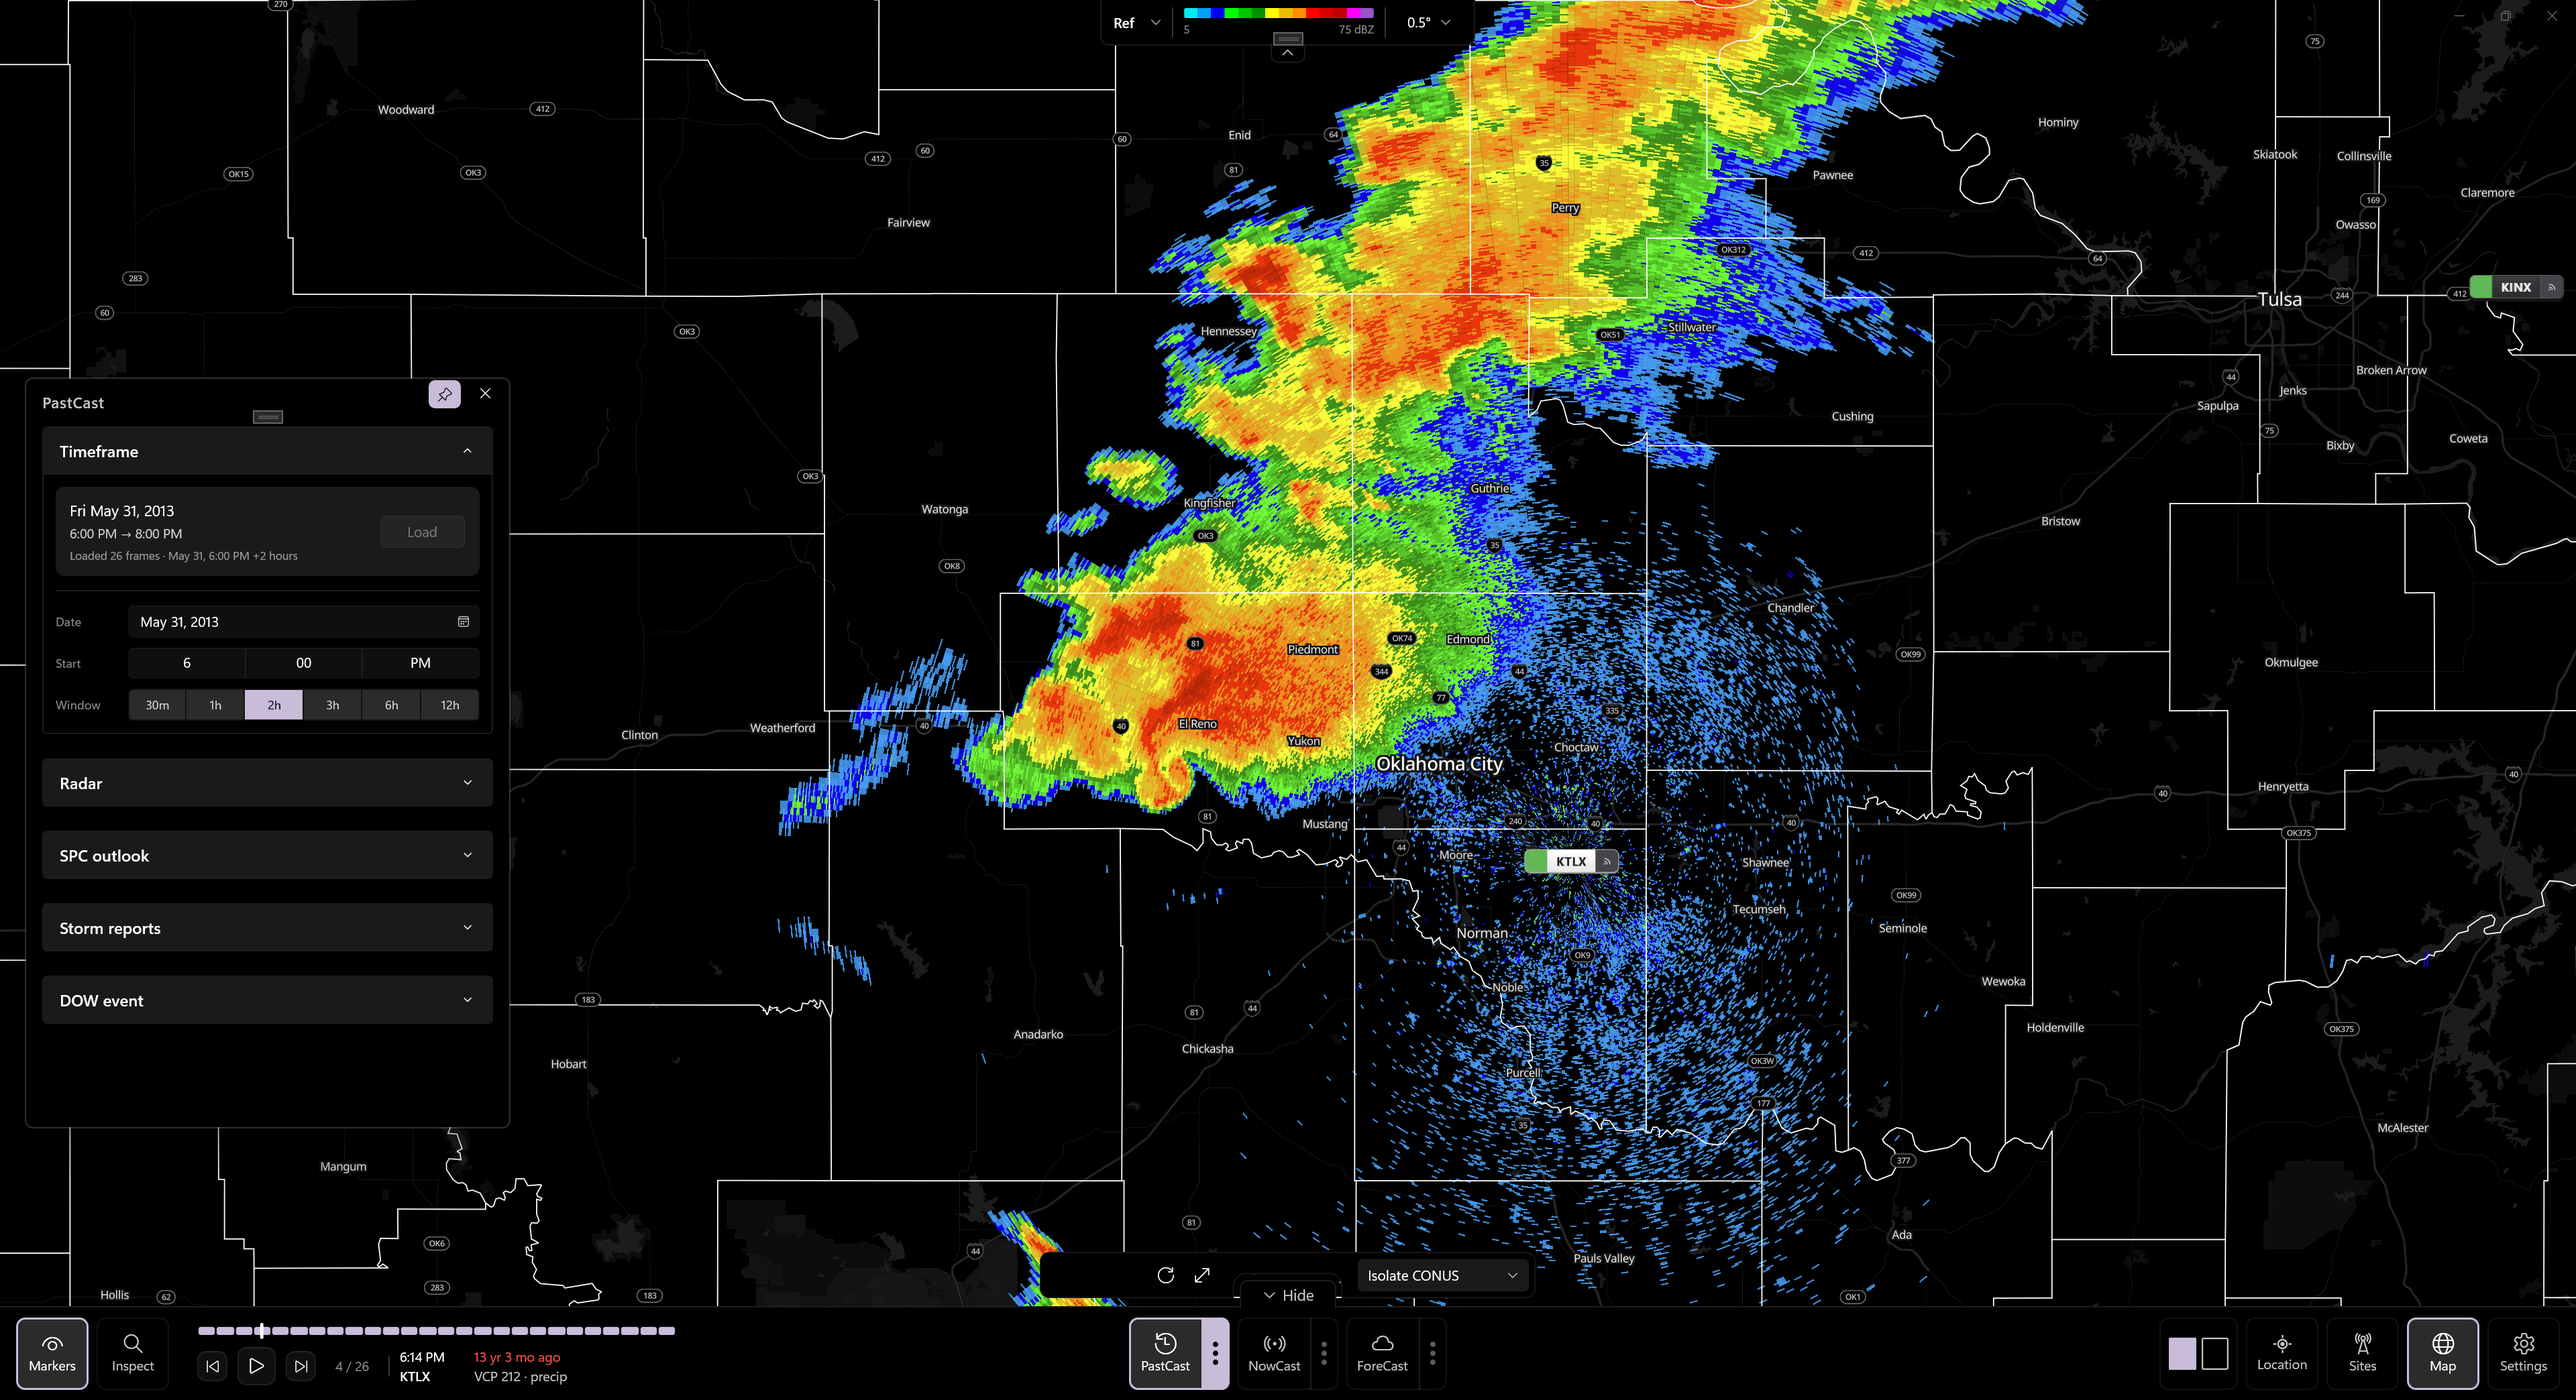
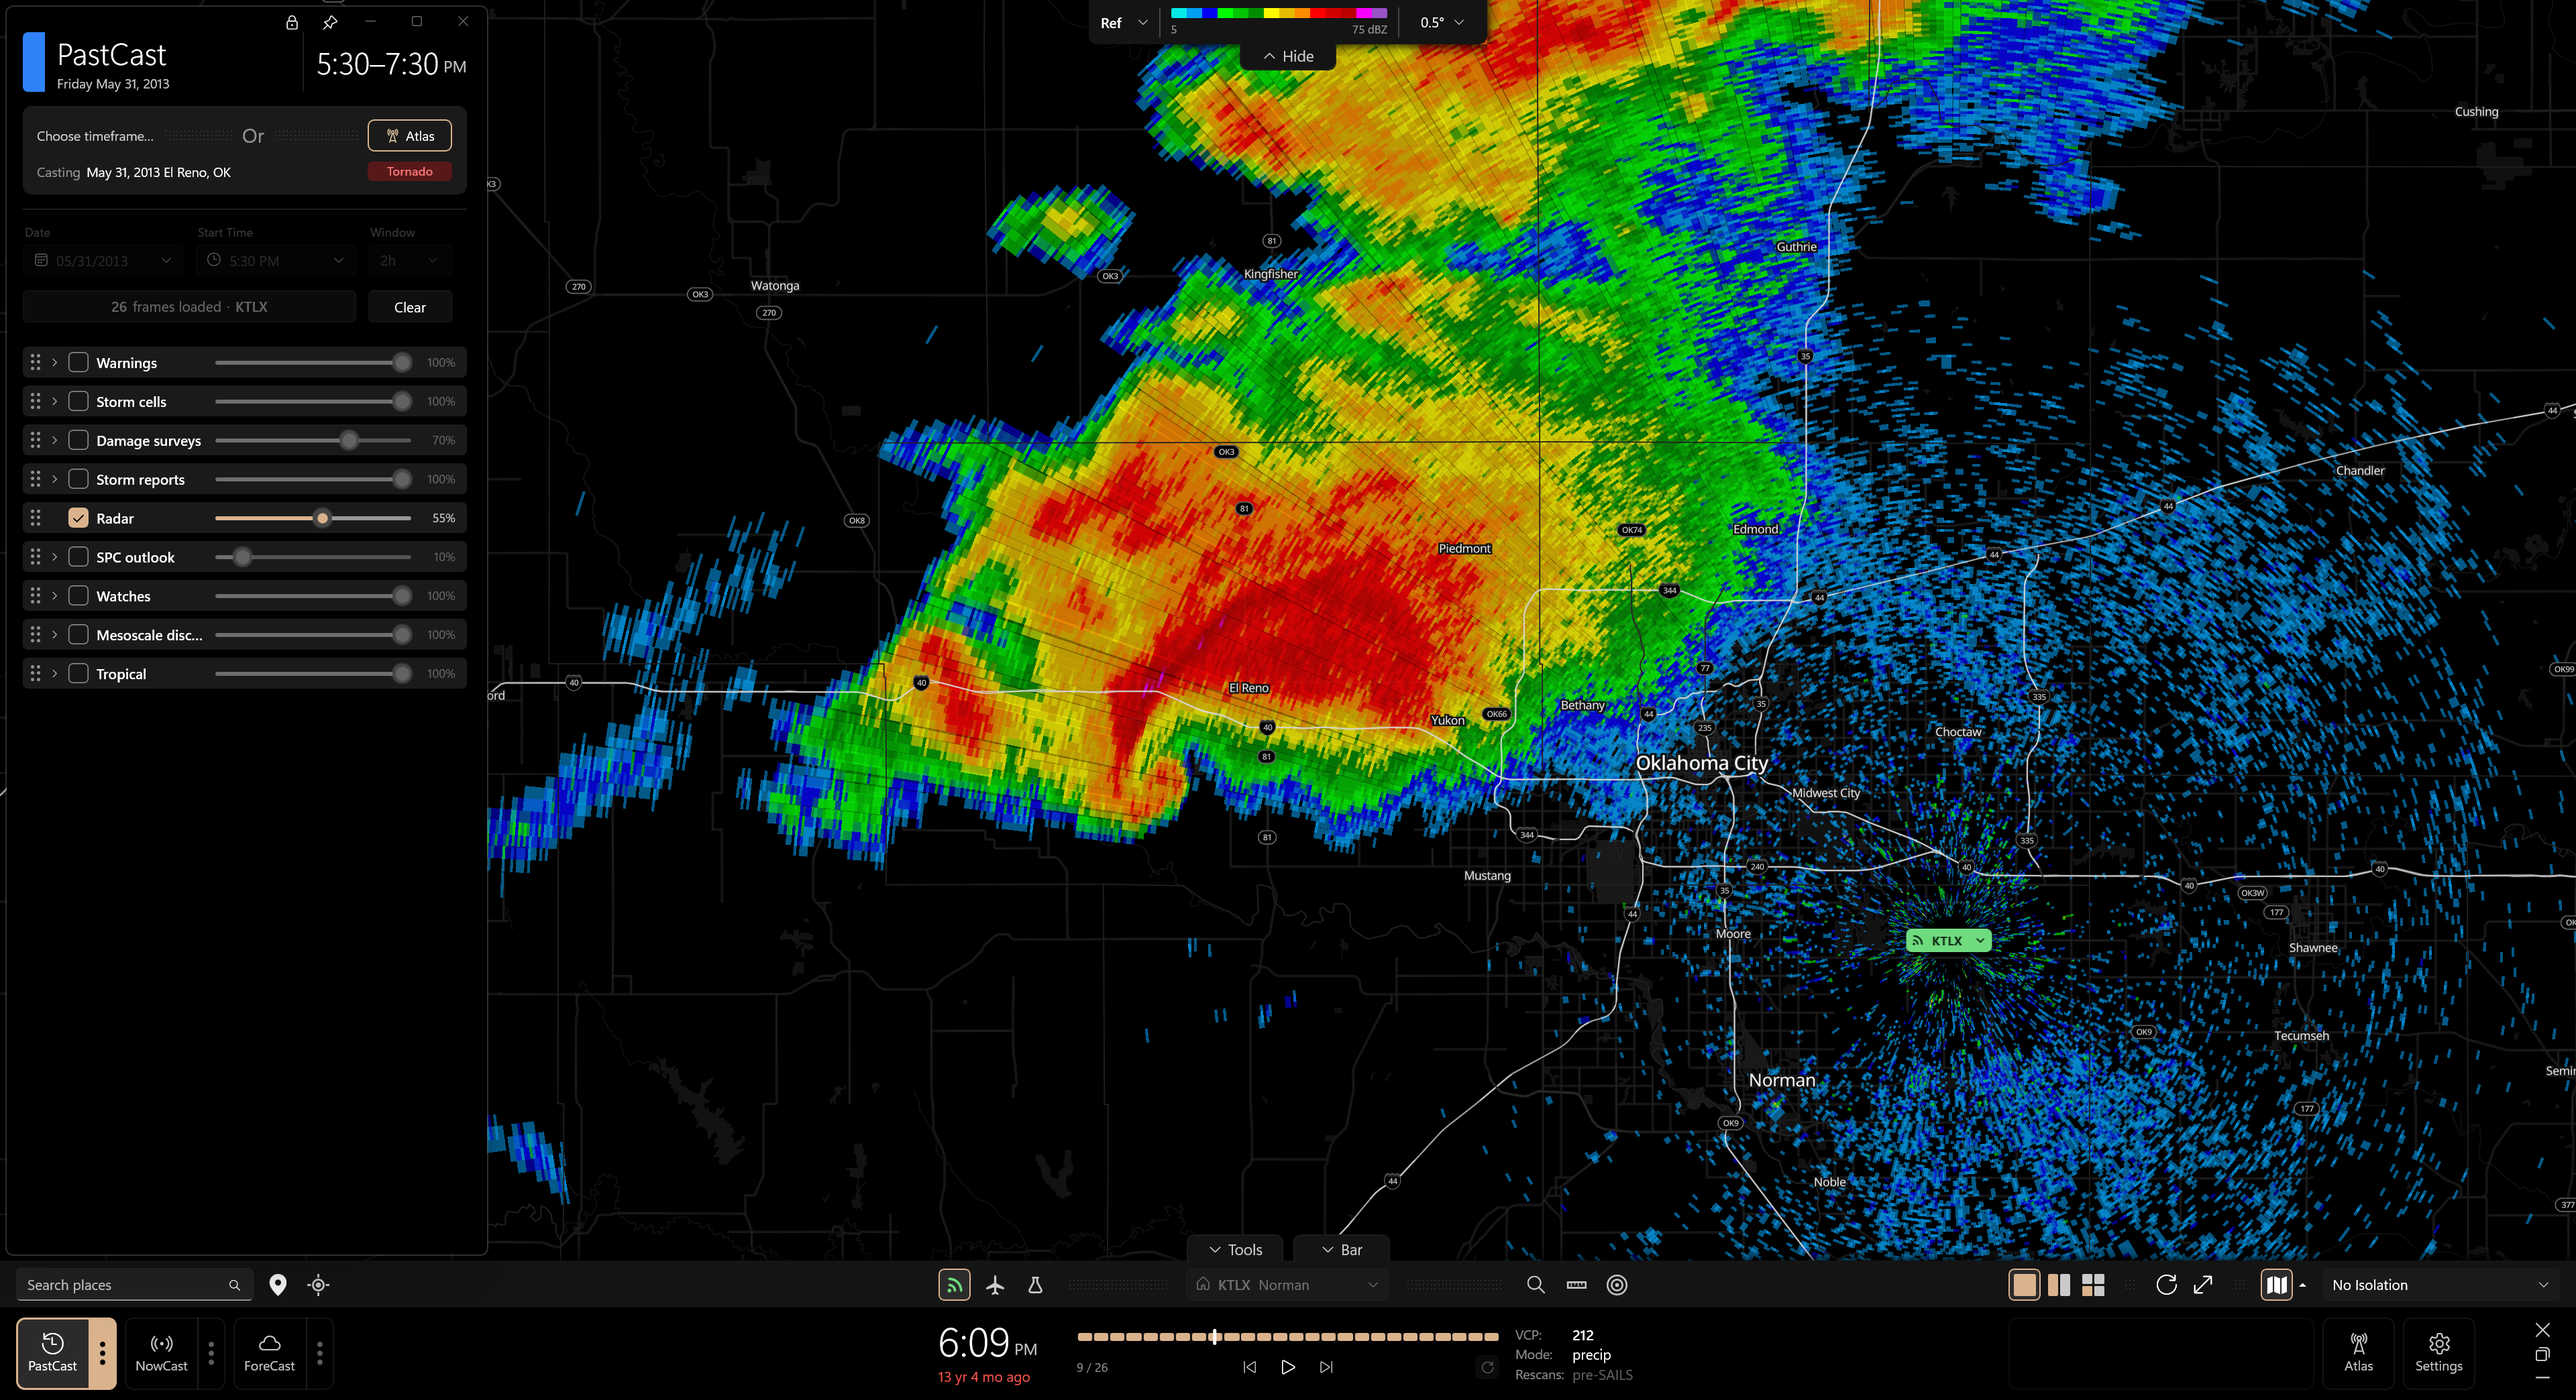
Refresh the README screenshots and rewrite their alt text to match
DevJohn requested updated GitHub screenshots for Anvil. The five images in media/ were retaken under their existing names (hero El Reno replay, four-pane quad, NowCast warnings, PastCast outlook, state isolation), all still 3840x2088, so the README's width/height attributes are unchanged.

The alt text was rewritten to describe what each new image shows: the NowCast shot is now a live KRAX loop with one severe and one tornado warning and 81 active watches, the outlook and isolation shots now show the 24 May 2011 High-risk outlook, and the hero's wording names the loaded window and frame; the quad's text still matched.

diff --git a/README.md b/README.md
@@ -4,7 +4,7 @@
 replayed from the archive — and GPU-renders it over local, fully style-controlled vector basemaps, with
 SPC outlooks, watches, warnings, and storm reports layered on top.
 
-<img width="3840" height="2088" alt="The 31 May 2013 El Reno supercell replayed from the archive on KTLX at 0.5° reflectivity, with the PastCast panel showing the loaded two-hour window and the frame scrubber part-way through 26 frames" src="media/hero-el-reno-replay.png" />
+<img width="3840" height="2088" alt="The 31 May 2013 El Reno supercell replayed from the archive on KTLX at 0.5° reflectivity, with the PastCast panel showing the loaded 5:30–7:30 PM window and the scrubber on frame 9 of 26" src="media/hero-el-reno-replay.png" />
 
 ## What it does
 
@@ -24,7 +24,7 @@ stitches in a near-real-time frame from the chunks bucket, cutting the usual ~10
 to a minute or two. The Past Event Viewer plays any site and date back through the 1990s through the
 exact same pipeline — scrub it, loop it, and read the decoded value under the cursor off the Inspector.
 
-<img width="3840" height="2088" alt="A live loop over the Carolinas with ten severe-thunderstorm warning polygons from the NWS CAP feed, the NowCast panel showing the per-type counts and the fifteen-second refresh cadence" src="media/nowcast-warnings.png" />
+<img width="3840" height="2088" alt="A live KRAX loop over eastern North Carolina and southeast Virginia with a severe-thunderstorm warning near Roanoke Rapids and a tornado warning near Washington from the NWS CAP feed, the NowCast panel showing the tornado, severe and flash-flood counts and the 81 active watches" src="media/nowcast-warnings.png" />
 
 **It overlays the severe-weather picture on top.** SPC convective and fire outlooks (Days 1–8, with
 significant-area hatching), tornado and severe-thunderstorm watches, storm-based warning polygons from
@@ -32,7 +32,7 @@ the authoritative NWS CAP feed, and SPC storm reports as verification dots — a
 forecast window, so a replayed event lines up with the outlook that was in effect and the reports that
 verified it.
 
-<img width="3840" height="2088" alt="The SPC Day 1 categorical outlook issued at 20Z on 31 May 2013 with the 263 storm reports that verified it — 31 tornado, 153 wind and 79 hail — plotted across the same 12Z-to-12Z convective day" src="media/pastcast-outlook-reports.png" />
+<img width="3840" height="2088" alt="The SPC Day 1 categorical outlook for 24 May 2011, replayed in PastCast with the El Reno–Piedmont event loaded: a High risk over Oklahoma and southern Kansas inside a Moderate, Slight and general-thunder ring across the central US" src="media/pastcast-outlook-reports.png" />
 
 **The basemap is local and fully yours.** Instead of a tile service, Anvil reads one offline PMTiles
 archive with style JSON you control, so a cartography change is a file edit and panning costs nothing.
@@ -43,7 +43,7 @@ and the map looks identical either way; offline stays the default. It's a Window
 packaged MSIX) in active development, with the UI mid-rebuild — several capabilities live in the view
 models ahead of the controls that expose them.
 
-<img width="3840" height="2088" alt="Oklahoma isolated from the CONUS view: everything outside the state is masked away while the El Reno line still renders inside it, and radar sites in neighbouring states stay visible where their coverage reaches in" src="media/state-isolation.png" />
+<img width="3840" height="2088" alt="Oklahoma isolated from the CONUS view: everything outside the state is masked away and only the part of the 24 May 2011 SPC outlook inside it is drawn, the High, Moderate, Slight and general-thunder lines running down the western half" src="media/state-isolation.png" />
 
 **Not for operational use;** rely on official NWS products for any safety-of-life decision.
 
